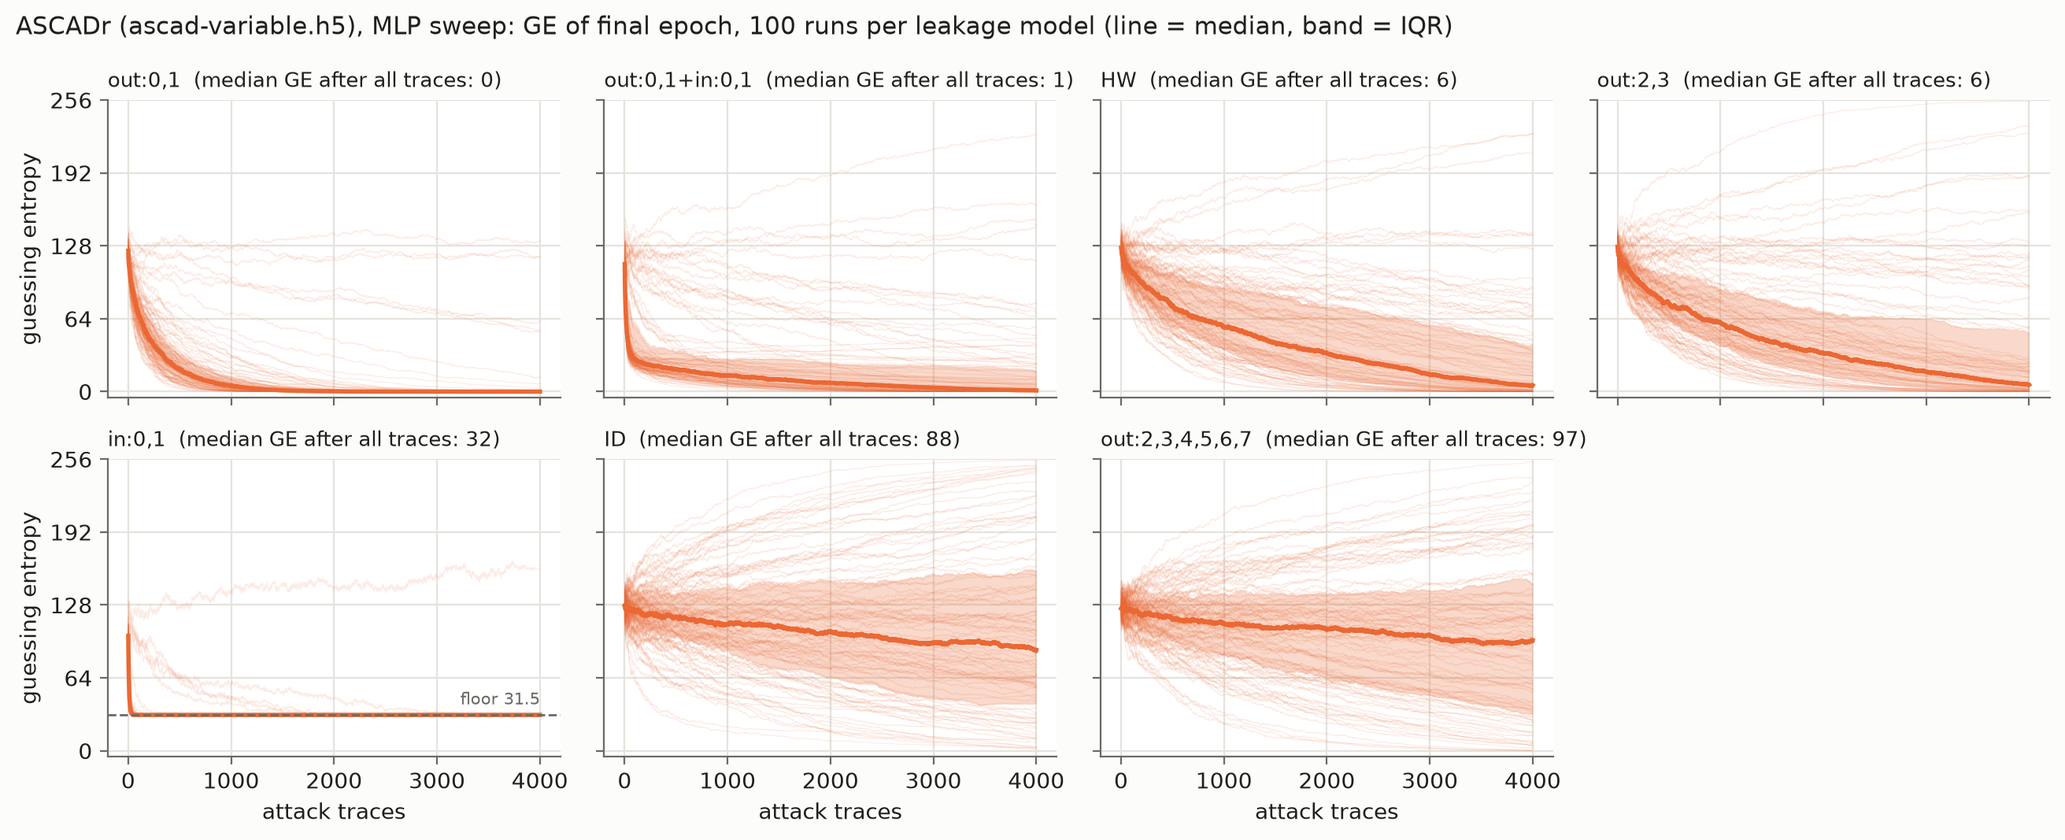
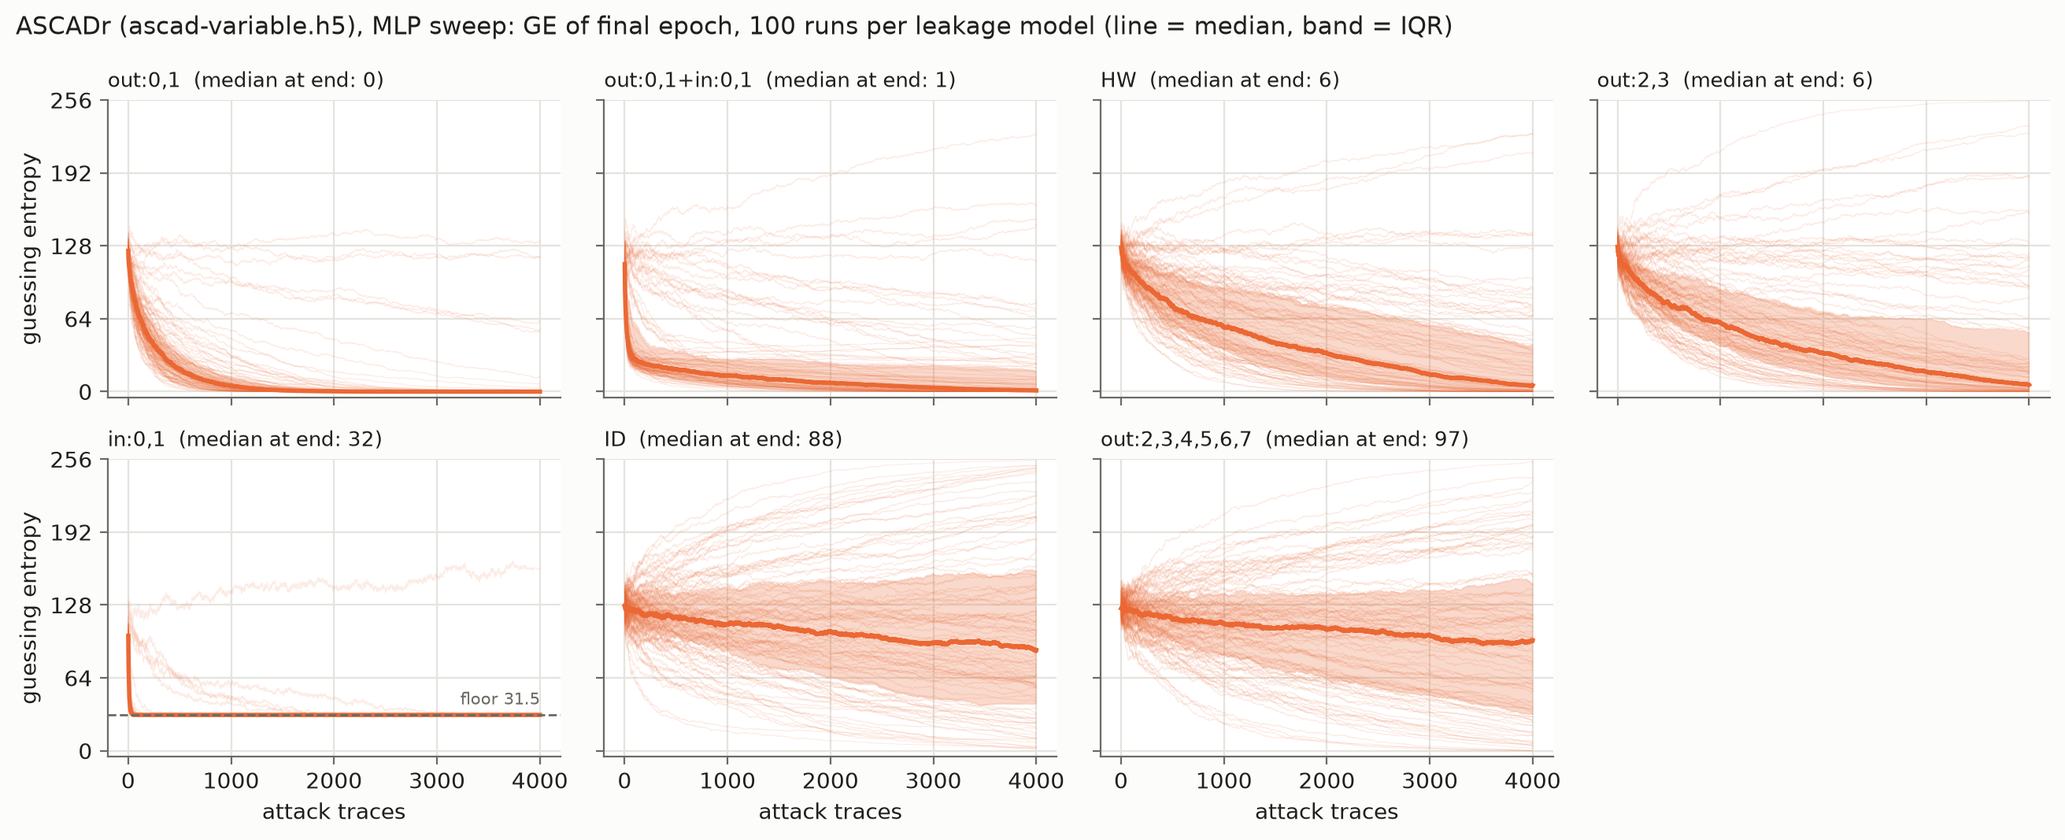
Update results doc with the full desync50 CNN sweep and takeaways
The CNN section now covers all 100 runs (violins, per-model and paired
tables for both checkpoints, GE curves), replacing the 27-run snapshot and
its figures. A new Takeaways section explains why the input bits only reach
GE < 32, why adding them to out:0,1 hurts instead of giving the expected
modest gain, the input-share starvation hypothesis, and the confidently
wrong CNNs. Status, TL;DR, caveats and next steps are updated; three
snapshot claims that did not hold at 100 runs are corrected.

diff --git a/docs/leakage_model_sweeps.md b/docs/leakage_model_sweeps.md
@@ -1,13 +1,13 @@
 # Training on targeted leakage models: first results
 
-*Status: 2026-09-28. MLP sweep on ASCADr complete (100 runs × 7 leakage models). CNN sweep on ASCADr desync50 in progress; the numbers below are a snapshot of the first 27 of 100 runs and will change.*
+*Status: 2026-09-28. Both sweeps complete: MLPs on ASCADr (100 runs × 7 leakage models) and CNNs on ASCADr desync50 (100 runs × 6 leakage models).*
 
 ## TL;DR
 
-- **Training on just the two S-box output LSBs (`out:0,1`) works far better than any other label we tried.** 90/100 random MLPs break ASCADr with it (median ~1.5k attack traces), versus 0/100 with ID labels at the same budget (20k profiling traces, 30 epochs). It wins the paired comparison against every other leakage model in 95–99 of 100 runs.
-- **It is the specific bits, not the number of classes.** `out:2,3` is also a 4-class label, trained on identical data and hyperparameters, and only 18/100 runs break the key. Dropping the LSBs (`out:2,3,4,5,6,7`) leaves 4/100.
-- **The S-box input LSBs are learned fastest.** `in:0,1` reaches its GE floor of 31.5 (64 tied key guesses) in 99/100 runs, with a median of ~40 traces. Yet the paper's 16-class `out:0,1+in:0,1` label is *worse* than `out:0,1` alone (43/100), which points to the joint label being harder to learn rather than the input bits hurting.
-- **Desynchronised traces (CNN, partial):** much harder overall, but `out:0,1` is again the strongest label if we take the best-validation-loss checkpoint (it wins 19–24 of 27 paired runs). At the final epoch the ranking is scrambled, because CNNs overfit over 50 epochs.
+- **Training on just the two S-box output LSBs (`out:0,1`) works better than any other label we tried, in both settings.** On ASCADr, 90/100 random MLPs break the key with it (median ~1.5k attack traces), versus 0/100 with ID labels at the same budget (20k profiling traces, 30 epochs). On desync50 with CNNs, everything is much harder, but `out:0,1` still breaks the key most often (18/100) and has by far the lowest median GE.
+- **It is the specific bits, not the number of classes.** `out:2,3` is also a 4-class label, trained on identical data and hyperparameters, and only 18/100 MLP runs break the key. Dropping the LSBs (`out:2,3,4,5,6,7`) leaves 4/100.
+- **The S-box input bits only ever get us to GE < 32, and adding them to `out:0,1` makes attacks worse.** That first part is expected: they depend on 2 key bits, so they can only find the right group of 64 keys. The surprise is the joint 16-class `out:0,1+in:0,1` label: it breaks the key less often than `out:0,1` alone (MLP 43 vs 90/100, CNN 12 vs 18/100) and is *slower* when both succeed (42 of 43 MLP runs). Our working hypothesis is that the much easier input-share feature starves learning of the output bits (see [Takeaways](#takeaways)).
+- **Many desync CNNs are confidently wrong:** their GE ends *above* 128, i.e. worse than a random guess. This affects 75/100 joint-label models and none of the HW models, and is not understood yet.
 - **Open:** the data-efficiency question needs a sweep over the number of profiling traces, and the broader question of whether different leakage models make networks learn *different internal representations* has not been tested yet (see [Next steps](#next-steps)).
 
 ## Motivation
@@ -31,26 +31,26 @@ The longer-term question is whether the leakage model changes *what* the network
 | `ID` | S-box output byte | 256 |
 | `HW` | Hamming weight of the S-box output | 9 |
 | `out:0,1` | two LSBs of the S-box output | 4 |
-| `out:2,3` | S-box output bits 2 and 3 (class-count control for `out:0,1`) | 4 |
+| `out:2,3` | S-box output bits 2 and 3 (class-count control for `out:0,1`; MLP sweep only) | 4 |
 | `out:2,3,4,5,6,7` | all output bits except the two LSBs | 64 |
 | `in:0,1` | two LSBs of the S-box input | 4 |
-| `out:0,1+in:0,1` | the 16 classes Y_i from the paper | 16 |
+| `out:0,1+in:0,1` | the 16 classes Y_i from the paper (written `in:0,1+out:0,1` in the CNN sweep; same information) | 16 |
 
 Labels that only use S-box *input* bits depend on only some key bits, so several key guesses always get the same labels (for `in:0,1`, 64 of them). We count ties as half a rank, so GE bottoms out at 31.5 rather than 0. For those models we also report when the attack reaches GE < 32.
 
-**Training protocol (random search, paired).** Each sweep draws N runs. Each run *i* draws a random subset of 20k profiling traces and random hyperparameters, and uses **the same subset and hyperparameters for every leakage model**. Comparisons between leakage models are therefore paired, and the spread within a violin reflects sensitivity to data and hyperparameter choice.
+**Training protocol (random search, paired).** Each sweep draws 100 runs. Each run *i* draws a random subset of 20k profiling traces and random hyperparameters, and uses **the same subset and hyperparameters for every leakage model**. Comparisons between leakage models are therefore paired, and the spread within a violin reflects sensitivity to data and hyperparameter choice.
 
 | | MLP sweep | CNN sweep |
 |---|---|---|
 | dataset | ASCADr (`ascad-variable.h5`, 1400 samples) | ASCADr desync50 (`ascad-variable-desync50.h5`) |
-| runs | 100 (complete) | 27 of 100 (snapshot) |
+| runs | 100 | 100 |
 | training traces | 20k random subset of 180k | 20k random subset of 180k |
 | validation | last 10k profiling traces | last 10k profiling traces |
 | attack traces | 4k | 10k |
 | epochs | 30 | 50 |
 | architecture | 2–6 dense layers, width 32–200 | 1–4 conv blocks (Conv1d → act → BN → AvgPool, 4–32 filters doubling per block, kernel 5–51, pool 2–10), then 1–3 dense layers of width 32–200 |
 
-Both sweeps also sample the activation (ELU/ReLU/SELU), the Adam learning rate (1e-4 to 3e-3, log-uniform) and the batch size (128–512). Traces are standardised per sample using the training subset.
+Both sweeps also sample the activation (ELU/ReLU/SELU), the Adam learning rate (1e-4 to 3e-3, log-uniform) and the batch size (128–512). Traces are standardised per sample using the training subset. Every run trained at its sampled batch size.
 
 **Evaluation.** Guessing entropy (GE) averaged over 100 random orderings of the attack traces, for both the final-epoch model and the checkpoint with the lowest validation loss. The violin plots put each run on one "lower is better" scale. Below the dashed line are runs that end with GE < 1, placed by the number of attack traces needed to get there. Above it are runs that don't, placed by their final GE.
 
@@ -97,7 +97,7 @@ Paired against `out:0,1` (same subset and hyperparameters, final epoch, compared
 
 **Necessity: mostly.** Excluding the two LSBs (`out:2,3,4,5,6,7`) leaves 4/100 successful runs, close to ID. ID contains the LSBs but fails completely at this budget (0/100 to GE < 1, 23/100 to GE < 32). So having the right information in the label isn't enough; with 20k traces, a 256-class target seems to be too hard for these small MLPs to learn the LSB structure from.
 
-**Input bits are the easiest thing to learn, but combining them hurts.** `in:0,1` reaches its floor in 99/100 runs with a median of 43 traces, faster than anything else. The joint `out:0,1+in:0,1` label benefits from this for GE < 32 (84/100, median 54 traces). But it breaks the full key less often than `out:0,1` alone (43 vs 90/100), and loses 97/100 paired runs. The joint 16-class label contains everything `out:0,1` does, so this looks like an optimisation or capacity effect rather than the input bits being harmful. A factored head (separate softmaxes for the in and out bits, summed at attack time) would test this directly.
+**Input bits are the easiest thing to learn, but combining them hurts.** `in:0,1` reaches its floor in 99/100 runs with a median of 43 traces, faster than anything else. The joint `out:0,1+in:0,1` label benefits from this for GE < 32 (84/100, median 54 traces), but it breaks the full key less often than `out:0,1` alone (43 vs 90/100) and loses 97/100 paired runs. See [Takeaways](#takeaways) for why this is surprising and what might cause it.
 
 **Selecting checkpoints by validation loss fails for MLPs.** The best-validation-loss epoch is 0–1 for almost every run and leakage model, so that checkpoint is essentially untrained (27/100 successful runs for `out:0,1`, against 90 at the final epoch). Validation loss is a poor proxy for attack performance here, which is why the main figure shows the final epoch. The split version below shows both checkpoints.
 
@@ -108,57 +108,91 @@ Paired against `out:0,1` (same subset and hyperparameters, final epoch, compared
 
 </details>
 
-## Results: CNNs on ASCADr desync50 (partial: 27 of 100 runs)
+## Results: CNNs on ASCADr desync50
 
-*Snapshot taken 2026-09-28 10:01. Only runs completed for all six leakage models are included. `out:2,3` is not in this sweep.*
+![Violins for the CNN desync50 sweep, both checkpoints](figures/cnn_desync50_violins.png)
 
-![Violins for the CNN desync50 sweep, both checkpoints](figures/cnn_desync50_violins_partial.png)
+*Left half of each violin: best-validation-loss checkpoint; right half: final epoch. `out:2,3` is not in this sweep.*
 
-| leakage model | classes | runs | GE<1 final | GE<32 final | median final GE | GE<1 best ckpt | GE<32 best ckpt | median best-ckpt GE | median best epoch |
-|---|---|---|---|---|---|---|---|---|---|
-| `out:0,1` | 4 | 27 | 5 | 8 | 98.1 | 2 | 14 | **23.4** | 16 |
-| `HW` | 9 | 27 | 0 | 0 | 78.0 | 0 | 0 | 81.0 | 21 |
-| `in:0,1` | 4 | 27 | 0* | 10 | 95.5 | 0* | 7 | 159.5 | 31 |
-| `out:0,1+in:0,1` | 16 | 27 | 3 | 5 | 159.7 | 3 | 4 | 187.9 | 23 |
-| `out:2,3,4,5,6,7` | 64 | 27 | 0 | 1 | 159.2 | 0 | 1 | 153.3 | 2 |
-| `ID` | 256 | 27 | 0 | 0 | 170.9 | 0 | 3 | 118.7 | 1 |
+| leakage model | classes | GE<1 final | traces to GE<1 (median) | GE<32 final | median final GE | GE<1 best ckpt | GE<32 best ckpt | median best-ckpt GE | best-ckpt GE > 128 | median best epoch |
+|---|---|---|---|---|---|---|---|---|---|---|
+| `out:0,1` | 4 | **18** | 2126 | 30 | 83.3 | **12** | **47** | **34.4** | 21 | 18 |
+| `HW` | 9 | 3 | 8207 | 6 | 77.0 | 0 | 1 | 80.0 | **0** | 17 |
+| `ID` | 256 | 1 | 7571 | 10 | 143.7 | 0 | 8 | 124.7 | 49 | 1 |
+| `in:0,1` | 4 | 0* | – | 51 | 31.5 | 0* | 34 | 127.5 | 50 | 26 |
+| `out:2,3,4,5,6,7` | 64 | 1 | 9342 | 17 | 130.9 | 0 | 5 | 154.6 | 64 | 3 |
+| `out:0,1+in:0,1` | 16 | 12 | 2736 | 23 | 155.0 | **12** | 19 | 194.5 | 75 | 19 |
+
+\* `in:0,1` cannot reach GE < 1 (floor 31.5), and its GE moves in steps of 64 (31.5, 95.5, 159.5, …) because the 64 tied key guesses are always ranked as a block. All 100 runs per leakage model.
 
 Paired against `out:0,1`, for each checkpoint:
 
 | leakage model | final epoch: `out:0,1` better / other better | best val-loss ckpt: `out:0,1` better / other better |
 |---|---|---|
-| `HW` | 10 / 17 | 19 / 8 |
-| `in:0,1` | 17 / 10 | 24 / 3 |
-| `out:0,1+in:0,1` | 17 / 10 | 23 / 4 |
-| `out:2,3,4,5,6,7` | 20 / 7 | 23 / 4 |
-| `ID` | 16 / 11 | 21 / 6 |
+| `HW` | 45 / 55 | 65 / 35 |
+| `in:0,1` | 49 / 51 | 76 / 24 |
+| `out:0,1+in:0,1` | 68 / 32 | 82 / 18 |
+| `out:2,3,4,5,6,7` | 68 / 32 | 78 / 22 |
+| `ID` | 63 / 37 | 69 / 31 |
 
-![GE curves of the best val-loss checkpoint, CNN sweep](figures/cnn_desync50_ge_curves_best_partial.png)
+![GE curves of the best val-loss checkpoint, CNN sweep](figures/cnn_desync50_ge_curves_best.png)
 
-### What this says so far
+<details>
+<summary>GE curves of the final epoch</summary>
 
-- **Desync50 at 20k traces is hard.** No leakage model is reliable; the best is 5/27 runs reaching GE < 1 (`out:0,1`, final epoch, median ~4.9k attack traces).
-- **`out:0,1` is still the strongest label, if we pick the right checkpoint.** At the best-validation-loss checkpoint it reaches GE < 32 in 14/27 runs with a median GE of 23, and wins 19–24 of 27 paired runs against every other model.
-- **Checkpoint choice matters for CNNs, the opposite of the MLP result.** CNN validation loss bottoms out mid-training (median best epoch 16–31 for most labels), and the models overfit afterwards. At the final epoch `out:0,1`'s median GE rises to 98, and HW wins 17/27 paired runs. HW is remarkably consistent (final GE between ~40 and ~130 in every run, mostly 60–100) but never breaks the key.
-- **Several CNNs are confidently wrong.** For `in:0,1`, `out:0,1+in:0,1` and `out:2,3,4,5,6,7`, the median GE *rises* above 128 as attack traces accumulate (figure above), so these models rank the correct key worse than a random guess. That suggests a systematic mismatch between what they learned on the profiling traces and the attack traces, not just a lack of signal. It's worth a closer look before reading much into these rankings.
-- The `in:0,1` GE values sit on steps of 64 (31.5, 95.5, 159.5, …). The 64 tied key guesses are always ranked as a block, so this is expected.
+![GE curves of the final epoch, CNN sweep](figures/cnn_desync50_ge_curves_final.png)
+
+</details>
+
+### What this says
+
+- **Desync50 at 20k traces is hard.** No label is reliable. The best is `out:0,1`, with 18/100 runs reaching GE < 1 at the final epoch (median ~2.1k attack traces) and 12/100 at the best checkpoint.
+- **`out:0,1` is still the strongest label.** It has the lowest median GE (34 at the best checkpoint; the next best, HW, is at 80) and the most runs below GE 32 (47/100). It wins 65–82 of 100 paired runs at the best checkpoint against every other label.
+- **The joint label is bimodal.** Its GE curves either drop below 32 within ~50 traces (19 runs at the best checkpoint, 12 of which go on to break the key), or climb steadily past 128. So it matches `out:0,1` on best-checkpoint GE < 1 (12/100 each) but has the worst median GE of all labels.
+- **HW is the most stable label but rarely breaks the key.** Its GE ends between ~40 and ~130 in almost every run and never above 128 at the best checkpoint. At the final epoch it beats `out:0,1` in 55/100 paired runs, mostly because `out:0,1`'s failures are further off (32/100 end above GE 128, against 3 for HW), not because HW succeeds (3/100 GE < 1).
+- **Checkpoint choice cuts both ways for CNNs.** Validation loss bottoms out mid-training for most labels (median best epoch 17–26). Training on to the final epoch gives `out:0,1` more successes (18 vs 12 runs to GE < 1) but also more badly-off runs (median GE 83 vs 34).
+- **The input bits are not fast on desync.** `in:0,1` alone needs a median of ~8k traces to reach GE < 32 (51/100 runs), against 43 traces for synchronised MLPs.
+
+## Takeaways
+
+**1. `out:0,1` is the best label in both settings, and it is the specific bits that matter.** It wins most paired comparisons on synchronised MLPs (95–99/100) and desynchronised CNNs (65–82/100 at the best checkpoint). The `out:2,3` control on the MLPs rules out the class count as the explanation.
+
+**2. The input bits can only get the attack to GE < 32. That part is expected.** `in:0,1` is `(p⊕k) & 3`, which depends on only the 2 lowest key bits. However well a model learns it, the likelihood is identical for all 64 keys sharing those bits, so it only picks out the right group of 64. Ranking the correct key within that group needs the output bits, because only the S-box's nonlinearity makes the other 6 key bits matter.
+
+**3. Adding the input bits to `out:0,1` makes attacks worse, not better. That part is surprising.** In principle, the joint label should help a little: once the input bits fix the group, the output bits only need to beat 63 wrong keys instead of 255. The number of traces needed grows roughly with log(number of competitors), so that is at best ~25% fewer traces for GE < 1. Instead:
+
+- the joint label breaks the key less often (MLP 43 vs 90/100; CNN 12 vs 18/100 at the final epoch);
+- when both labels break the key on the same run, the joint label is slower in 42 of 43 MLP runs (median 2458 vs 1188 traces) and 7 of 9 CNN runs.
+
+**4. Working hypothesis: the easy input-share feature starves learning of the output bits.** The SNR check shows why the input bits are so easy on synchronised traces: the masked S-box input `p⊕k⊕r_in` leaks with SNR ~9.7, against ~1.3–1.5 for the masked S-box outputs. With the joint label, the network can cut the loss a lot by learning the input share pair (r_in, `p⊕k⊕r_in`) first. That leaves less gradient pressure and, in small networks, less capacity for the harder output share pair (r_out or r[2] with the masked S-box output). With `out:0,1` alone the shortcut does not exist.
+
+The MLP GE curves fit this. The joint label's median GE drops fast early (28 after 100 traces, when `out:0,1` is still at 69), which is the input bits finding the key group. But then it stalls: 14 vs 5 after 1000 traces, 7.6 vs 0.3 after 2000. The output-bit part of the joint model is weaker than a model trained on the output bits alone.
+
+**5. Checkpoint selection matters and neither choice is right.** Validation loss picks essentially untrained MLPs (epoch 0–1). For CNNs it picks a mid-training epoch that is more reliable but breaks the key less often than the final epoch. A GE-based criterion on a held-out attack set would be fairer to both.
+
+**6. Confidently wrong CNNs are the main open puzzle.** At the best checkpoint, many desync CNNs rank the correct key *worse than random* (GE > 128): 75/100 for the joint label, 64 for `out:2,3,4,5,6,7`, 50 for `in:0,1`, 49 for ID, 21 for `out:0,1` and none for HW. A model without signal would stay around 128, so these models have learned something that systematically points *away* from the correct key on the attack set. That suggests a mismatch between profiling and attack traces that some labels are much more sensitive to. For the joint label, the rising runs are ones where the input bits were not learned: a model that had found the right group of 64 keys could not end much above GE ~63.
 
 ## Caveats
 
 - **One budget.** Everything uses 20k training traces and a fixed epoch count, so conclusions like "ID fails" are about this budget, not about ID in general.
 - **Small search space and short training** for the MLPs (30 epochs). The paper's ASCADr MLP used 100 epochs and more data.
-- **Checkpoint selection.** Neither checkpoint is ideal: validation loss selects untrained MLPs, and the final epoch penalises overfitting CNNs. A GE-based selection criterion on a held-out set would be fairer to both.
-- **Median trace counts** are computed only over runs that reach the threshold, so they aren't comparable between models with very different success rates. They also count the first time GE drops below the threshold.
+- **Median trace counts** are computed only over runs that reach the threshold, so they aren't comparable between models with very different success rates. They also count the first time GE drops below the threshold. The paired "both break" comparisons in the takeaways avoid this.
 - **Paired comparisons** use the combined scale (traces to GE < 1 if reached, else final GE). Leakage models with an input-bit term can't reach GE < 1, so they lose partly by construction.
+- **The mechanism in takeaway 4 is a hypothesis.** The GE curves are consistent with it, but they don't test it; see the next steps.
 - **One target byte (2) on one device.** eShard and CHES CTF are next.
 
 ## Next steps
 
-1. **Finish the CNN sweep** (~3 h) and regenerate this section. Add `out:2,3` via `--extend` for the class-count control.
-2. **Data efficiency:** sweep the number of training traces (e.g. 5k, 10k, 20k, 50k, 100k) for ID, HW and `out:0,1`, to test whether the gap closes with more data or targeted labels are genuinely more sample-efficient.
-3. **Other targets:** eShard and CHES CTF from the paper. Loaders are implemented and the extracted datasets are downloading.
-4. **Joint-label question:** a factored head for `out:0,1+in:0,1`, to separate "the joint label is harder to learn" from "the input bits hurt".
-5. **Representations (the main longer-term question):** compare what networks trained on different leakage models learn internally. For example, do HW-trained and `out:0,1`-trained models embed the mask and masked-value shares differently? We would reuse the paper's tools (probing hidden layers for share bits, perceived information, activation patching) on paired runs from these sweeps.
+1. **Test the starvation hypothesis** (joint label vs `out:0,1`), cheapest first:
+   - *Marginalise the joint model:* sum its 16-class probabilities down to the 4 `out:0,1` classes and attack with that. If this matches the `out:0,1` model, the output features were learned fine and the problem is in how the parts are combined; if it is worse, they were starved. Needs the attack log-probabilities saved per run (small), or reruns of a subset.
+   - *Factored head:* separate softmaxes for the input and output bits, trained jointly, with the log-probabilities summed at attack time; also with the output part's loss upweighted.
+   - *Learning curves:* output-bit accuracy per epoch inside the joint model against the `out:0,1` model on the same run.
+   - *Longer training* for a few configs, to see whether the gap is about convergence speed or capacity.
+2. **Understand the confidently wrong CNNs:** check whether the misranking comes from the input-bit or output-bit part of the prediction, and whether it is specific to the fixed-key attack set.
+3. **Data efficiency:** sweep the number of training traces (e.g. 5k, 10k, 20k, 50k, 100k) for ID, HW and `out:0,1`, to test whether the gap closes with more data or targeted labels are genuinely more sample-efficient.
+4. **Complete the CNN sweep's label set:** add `out:2,3` (class-count control) via `sweep.py --extend`.
+5. **Other targets:** eShard and CHES CTF from the paper. Loaders are implemented; the downloaded CHES CTF file is a longer 15k-sample window, so its loader needs adjusting first.
+6. **Representations (the main longer-term question):** compare what networks trained on different leakage models learn internally. For example, do HW-trained and `out:0,1`-trained models embed the mask and masked-value shares differently? The starvation hypothesis makes a concrete prediction here: joint-label networks should show weaker or later-forming output-share features than `out:0,1` networks on the same run. We would reuse the paper's tools (probing hidden layers for share bits, perceived information, activation patching) on paired runs from these sweeps.
 
 ## Reproducing
 
@@ -166,8 +200,9 @@ Paired against `out:0,1`, for each checkpoint:
 # MLP sweep (ASCADr)
 uv run scripts/sweep.py --dataset_path ascad-variable.h5 --n_attack 4000 --n_runs 100 --epochs 30 \
     --leakage_models "out:0,1" "in:0,1" "out:2,3" "out:0,1+in:0,1" ID HW "out:2,3,4,5,6,7" --quiet
-# CNN sweep (ASCADr desync50)
-uv run scripts/sweep.py --dataset_path ascad-variable-desync50.h5 --model cnn --n_runs 100 --epochs 50 --quiet
+# CNN sweep (ASCADr desync50); a stopped sweep resumes with --extend <sweep_dir>
+uv run scripts/sweep.py --dataset_path ascad-variable-desync50.h5 --model cnn --n_runs 100 --epochs 50 \
+    --gpu_mem_budget 12 --quiet
 
 # Figures and tables in this doc
 uv run scripts/plot_sweep.py <sweep_dir> [--final-only] --out docs/figures/<name>
